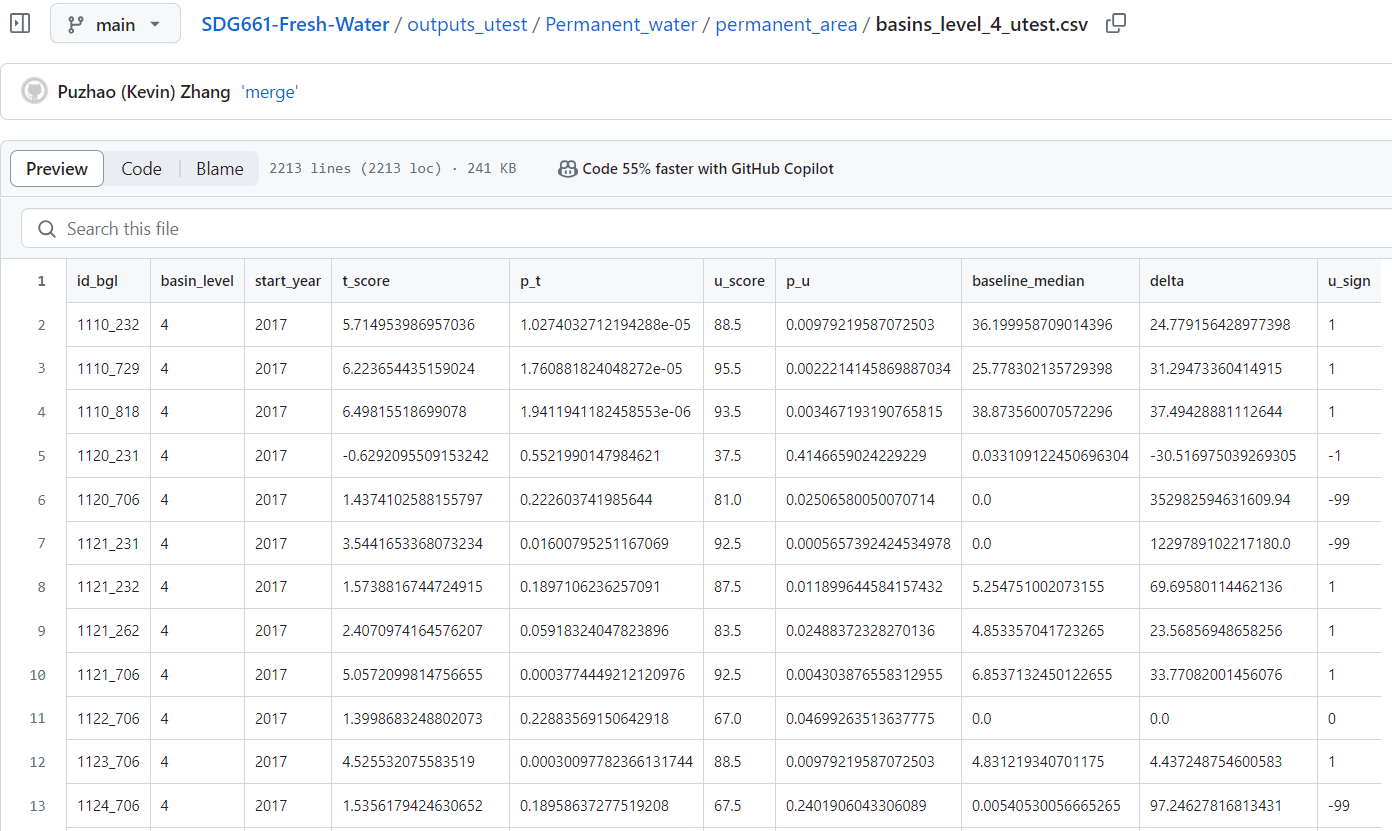
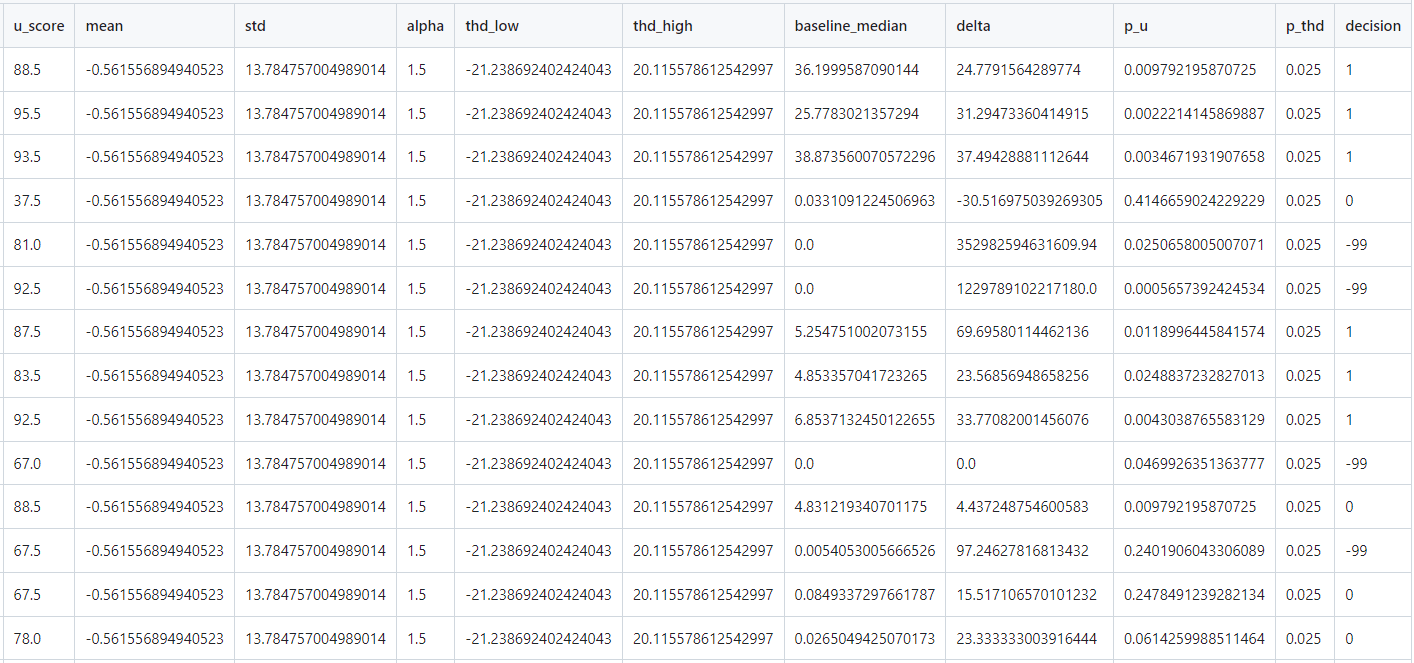
decision

diff --git a/README.md b/README.md
@@ -67,8 +67,18 @@ p_u < p_thd (0.05 as the significance level by default) determines a basin chang
 It is worth noting that the u_test was set as non-change/neutral if $\mu - \alpha \sigma \leq \delta  \leq \mu + \alpha \sigma$ since we trust more in delta-based approach for determining the non-change basins.
 
 ### How to make decision based on CSV tables
+```python 
+mean, std, thd_low, thd_high = get_delta_thresholds(basin_level, folder, area, alpha)
 
-decision = (p_u < p_thd) & (not $\delta_{low\_{thd}} \leq \delta \leq \delta_{high\_{thd}}$) * (u_sign.where(u_sign == -99, 0))
+df['decision'] = None
+df['decision'][(df['p_u'] < p_thd) & (df['delta'] < 0)] = -1 # decreased basins determined by utest
+df['decision'][(df['p_u'] < p_thd) & (df['delta'] > 0)] = 1 # increased basins  determined by utest
+df['decision'][df['p_u'] >= p_thd] = 0 # non-change determined by u-test
+
+df['decision'][(thd_low <= df['delta']) & (df['delta'] <= thd_high)] = 0 # non-change determined by delta mean and std
+df['decision'][df['baseline_median'] < 0.0225] = -99 # dry basins
+```
+
 
 ![image](figures/csv_screenshot.png)
 
